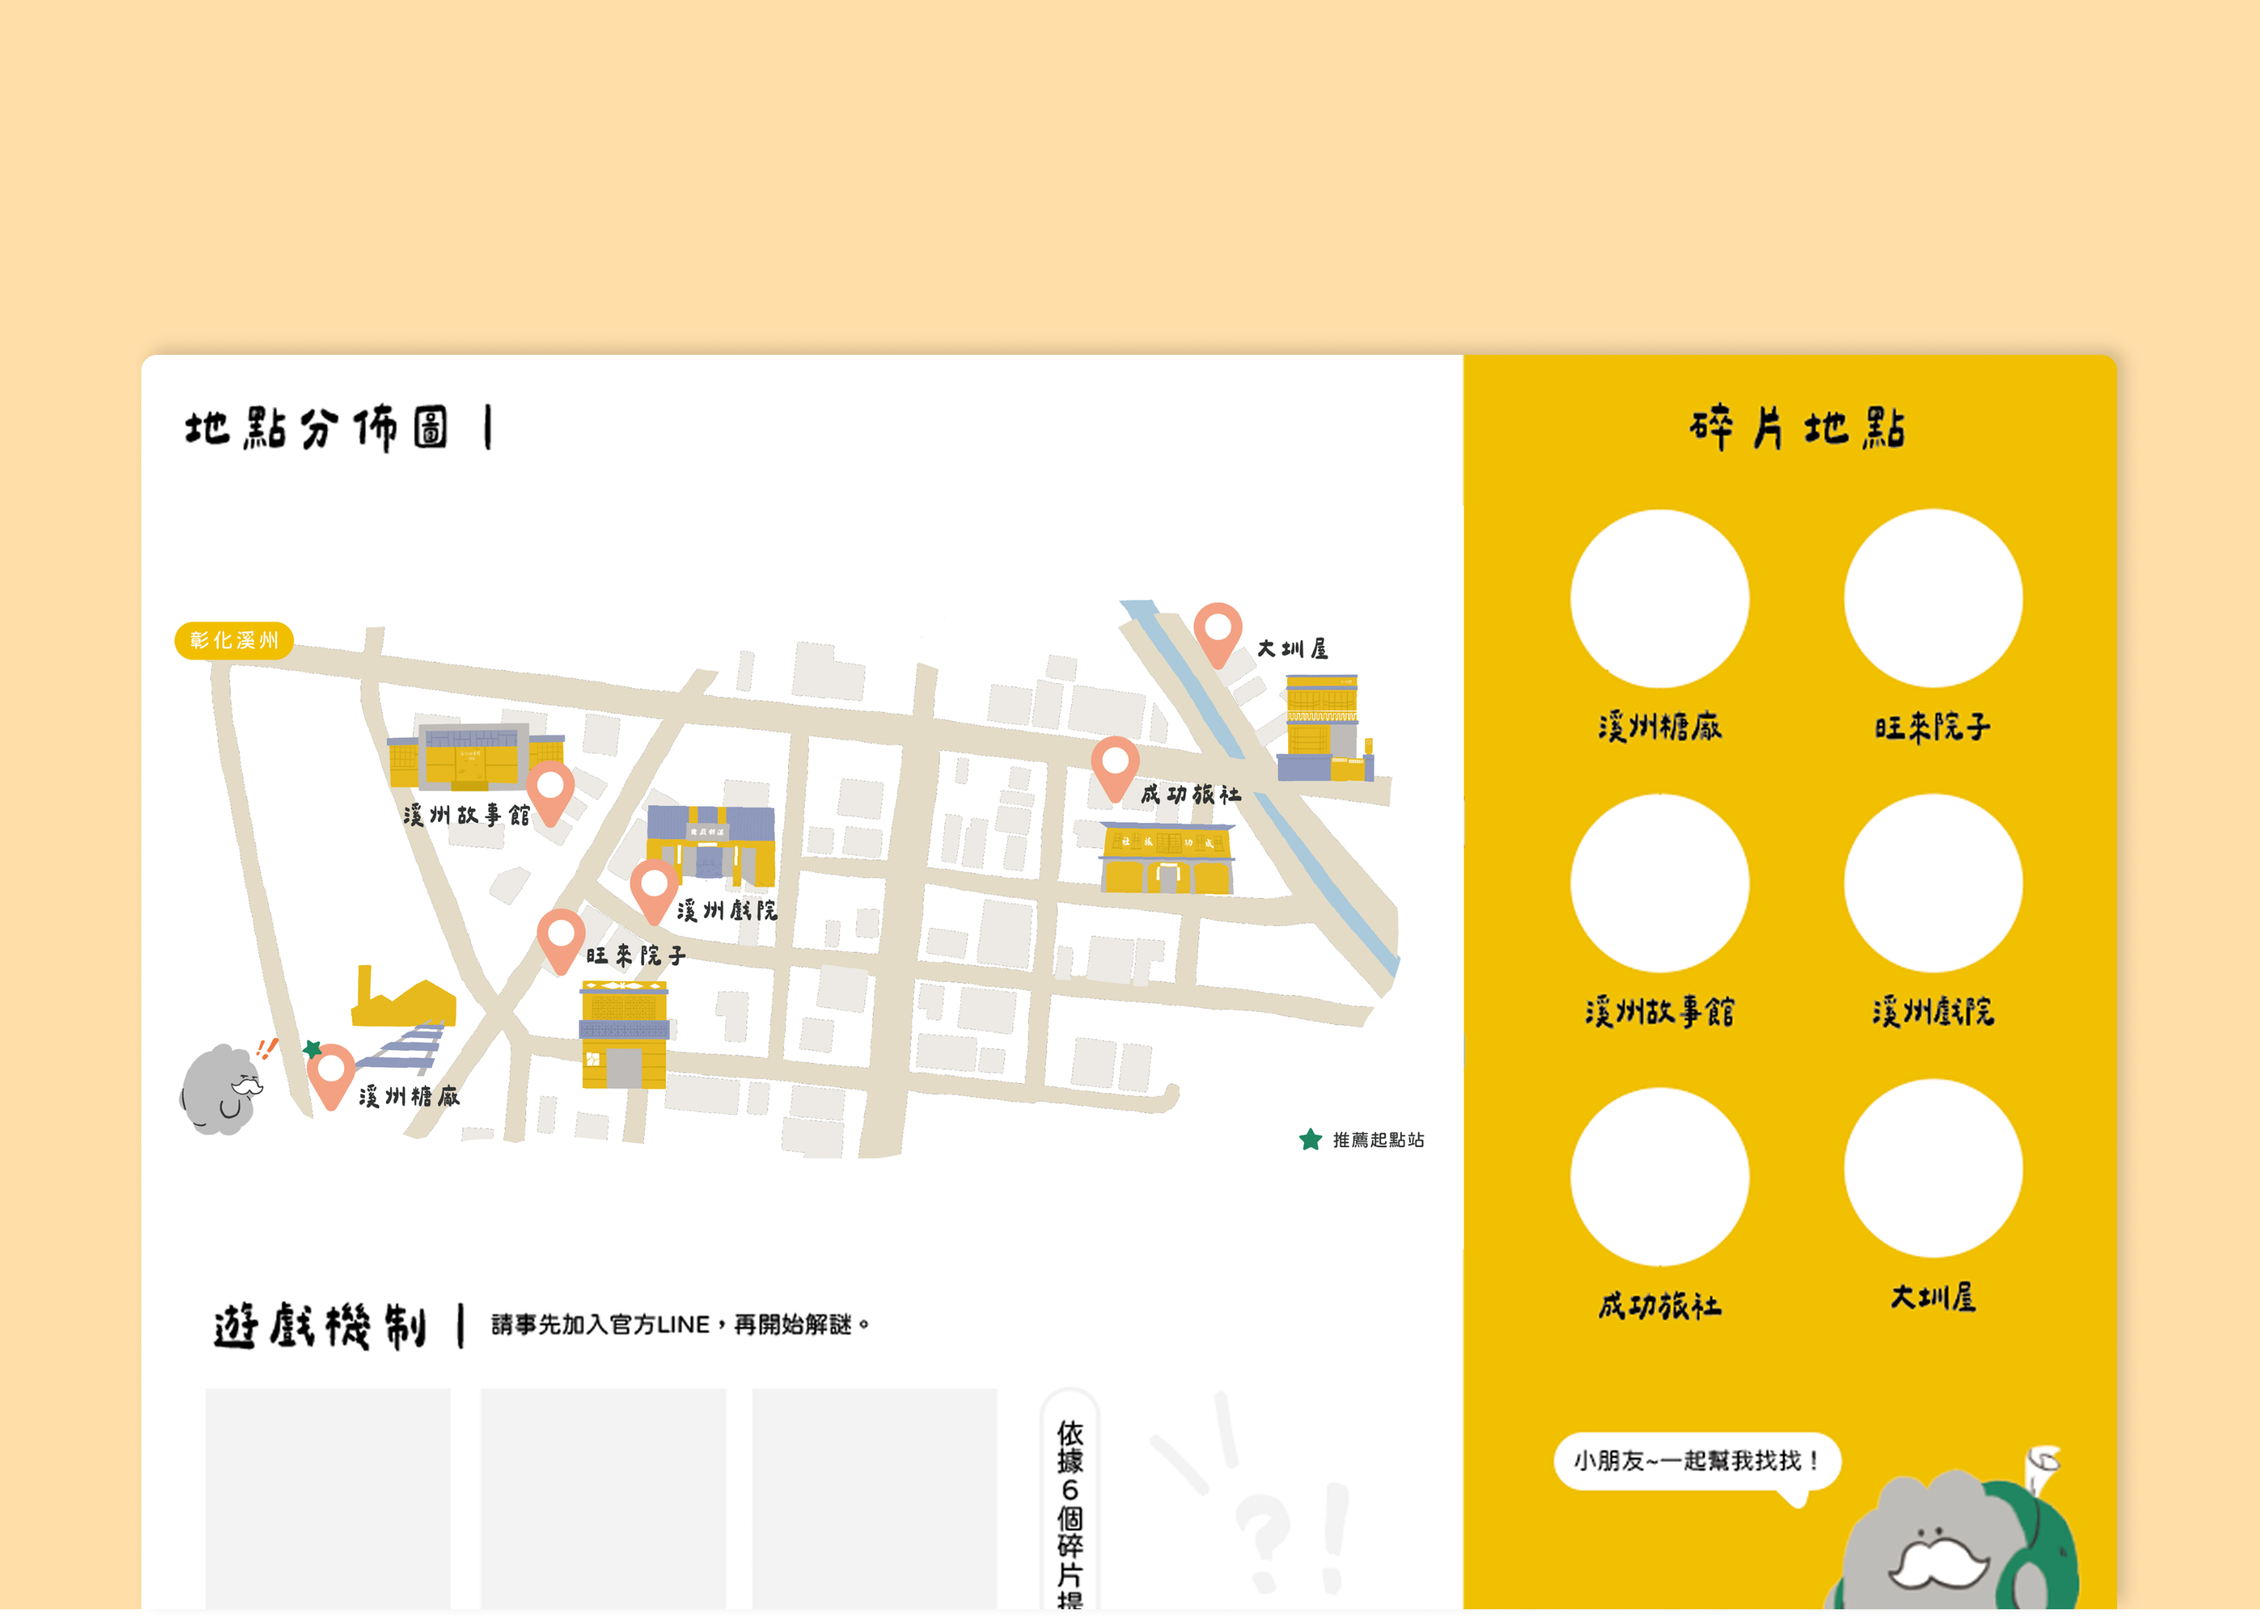
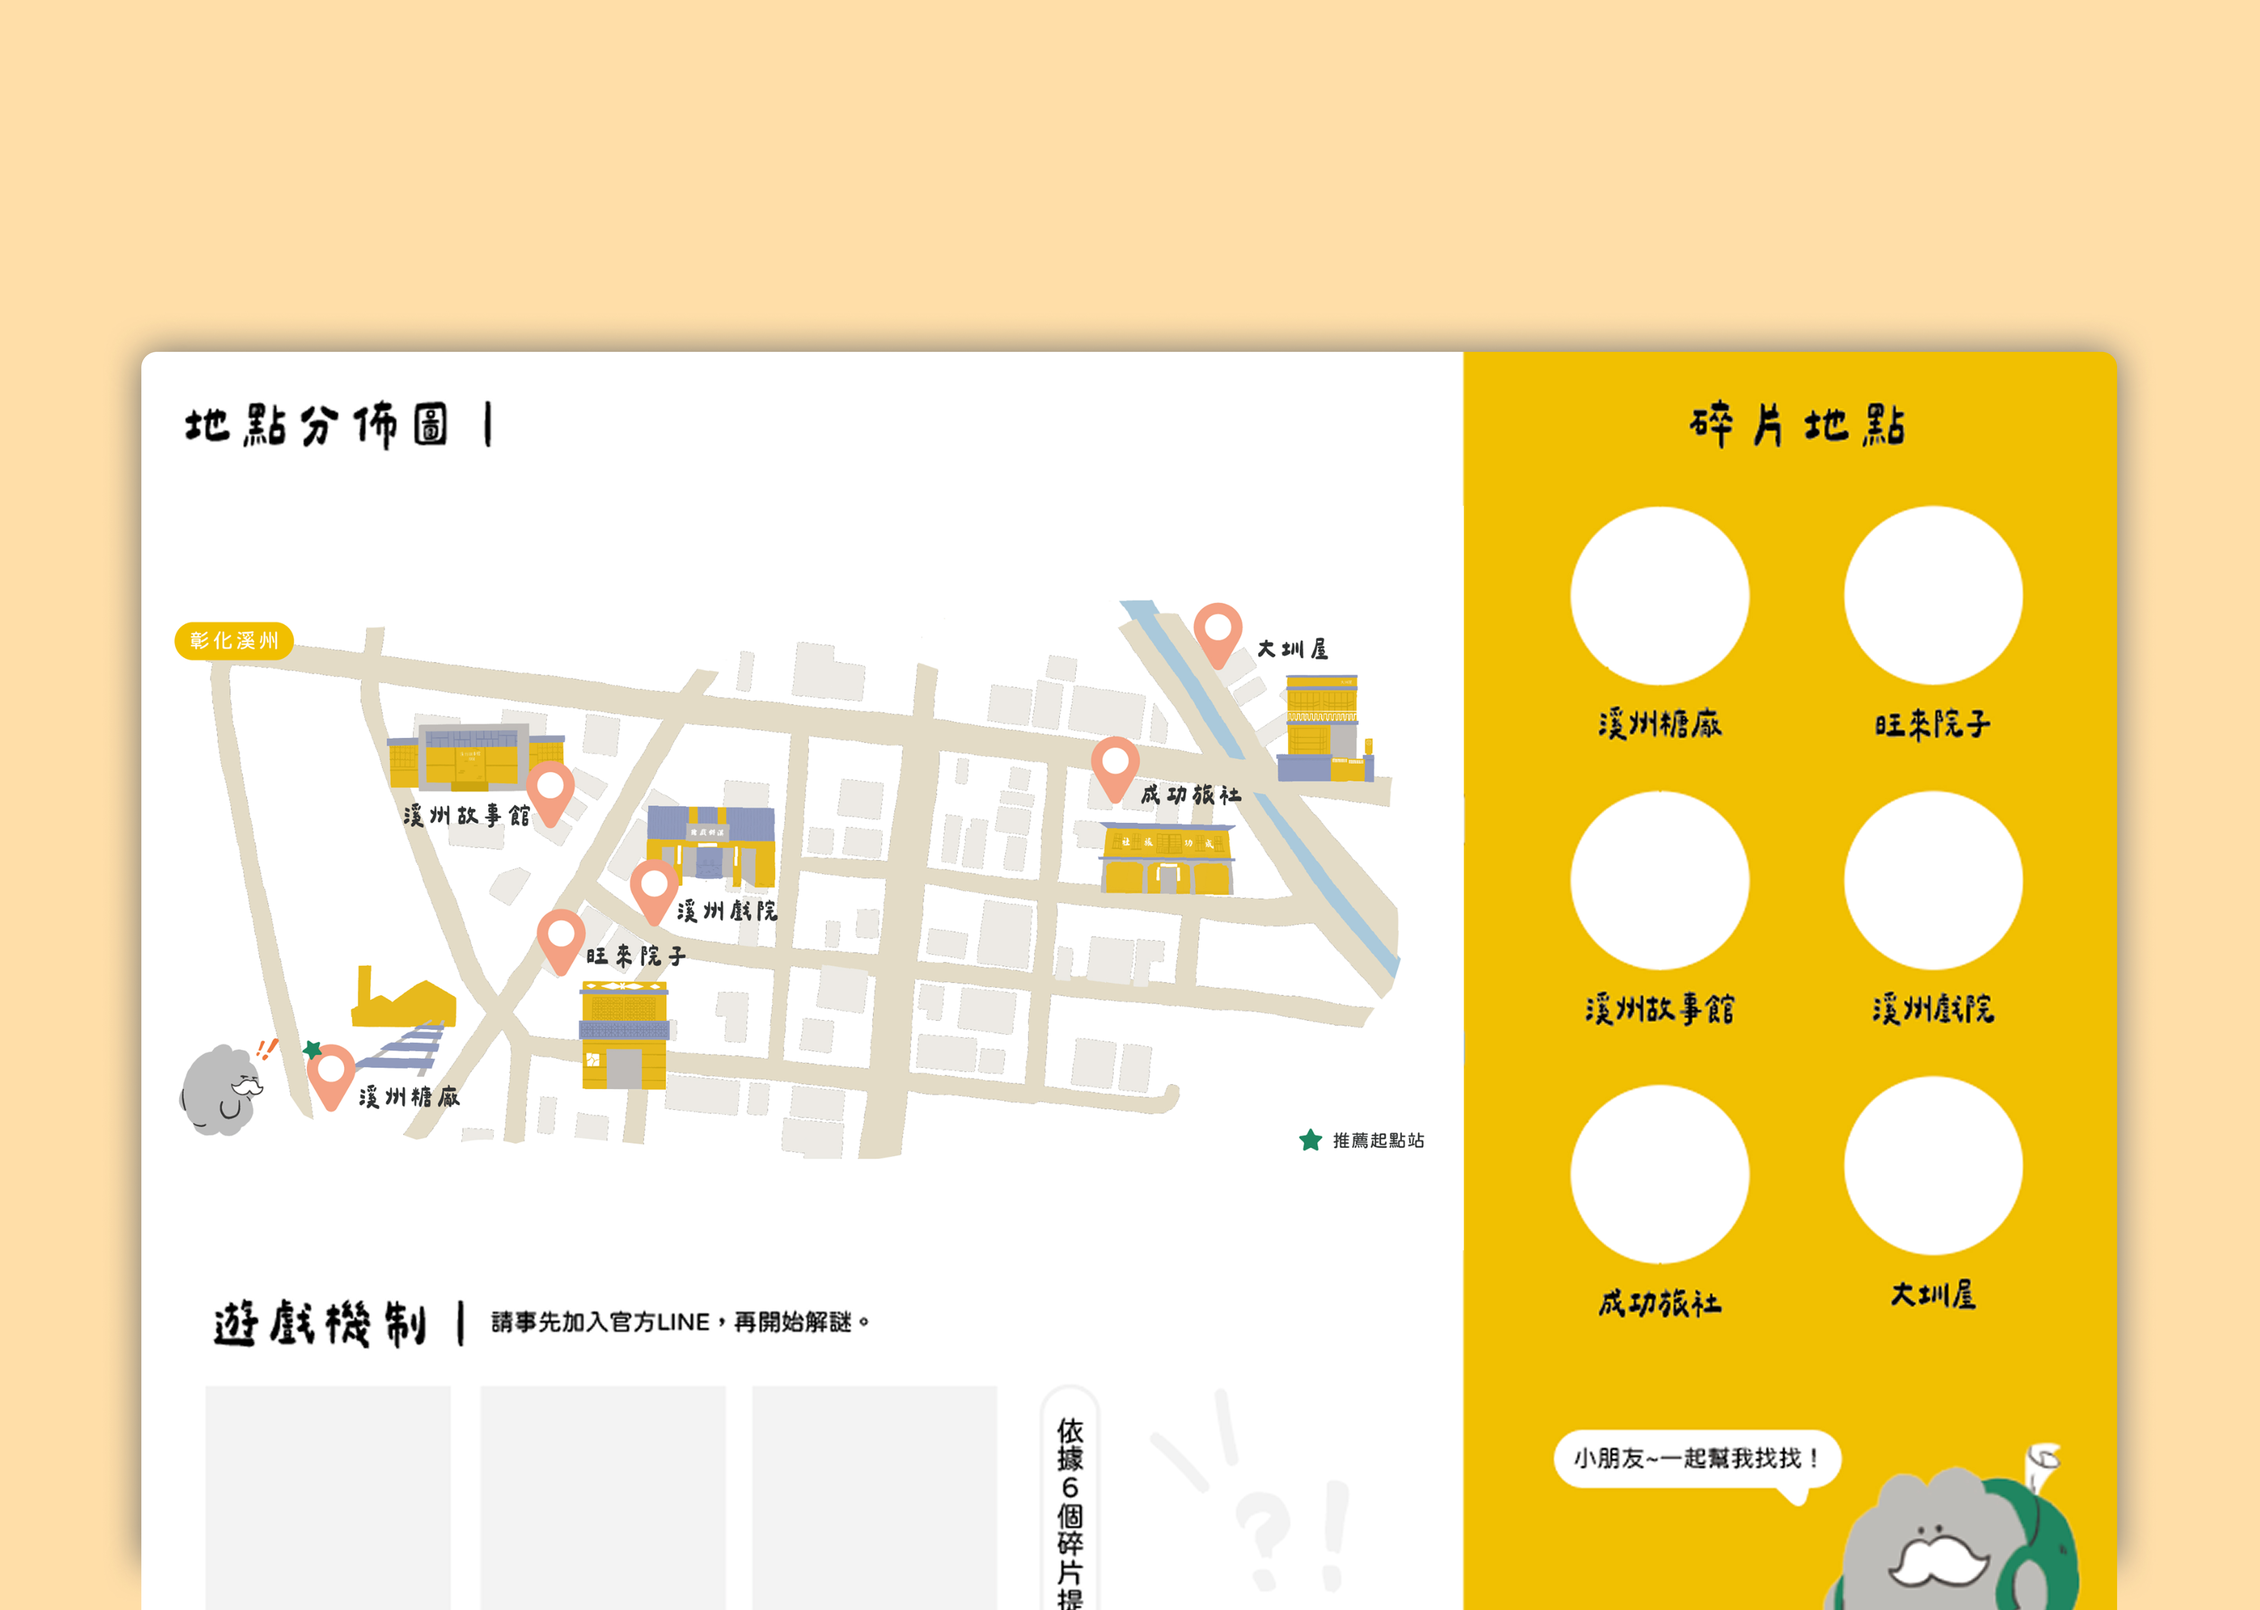
Space Feature #1 captions from their images, restore design1-2's cropped edges

diff --git a/css/editorial.css b/css/editorial.css
@@ -674,6 +674,23 @@ main { overflow-x: hidden; position: relative; }
    "Level card" labels keep the shared 12px size. */
 #f1-panels .fm-panel-label { font-size: calc(12px + 4pt); }
 
+/* .fm-panel-label declares position: absolute (above), but .fm-panel > * (shared, below) sets
+   position: relative at equal specificity and wins on source order — so the label isn't actually
+   an overlay here, it's row 1 of the panel's own implicit grid (one column, auto-flow row), with
+   the image as row 2 below it. That's a latent site-wide quirk (FeetMine's #testing-panels works
+   around the same thing with margin-top on its image instead), not something to fix from this one
+   page, so this works with it: row-gap is the real "space between the caption and the image." */
+#f1-panels .fm-panel { row-gap: 24px; }
+
+/* Panel A only (design1-1.svg, a plain photo of the blackboard): fills edge-to-edge, same bleed
+   treatment as Feature #2's route map below — cropping a photo loses nothing. Panel B
+   (design1-2.svg, a screenshot of numbered instructions and character bubbles right at its own
+   edges) keeps the shared .fm-full-shot default just above instead: object-fit: cover was cutting
+   that content off on both sides, so it needs the whole image, not a crop. */
+#f1-photo-panel { padding: 0; }
+#f1-photo-panel .fm-full-shot { width: 100%; height: 100%; align-self: stretch; border-radius: 0; }
+#f1-photo-panel .fm-full-shot img { width: 100%; height: 100%; object-fit: cover; }
+
 /* Feature #2's route map (design2-1.jpg) fills its panel edge-to-edge instead of showing the
    whole image centred like every other .fm-full-shot here — the same bleed treatment FeetMine
    gives its own edge-to-edge panel (css/editorial.css, [style*="orange"]), scoped by id since
@@ -681,6 +698,11 @@ main { overflow-x: hidden; position: relative; }
 #f2-route-panel { padding: 0; }
 #f2-route-panel > .fm-full-shot { width: 100%; height: 100%; align-self: stretch; border-radius: 0; }
 #f2-route-panel > .fm-full-shot img { width: 100%; height: 100%; object-fit: cover; }
+
+/* Level card (design2-2.png) keeps the shared .fm-full-shot treatment (whole image, centred) —
+   only its caption grows: 8pt larger than the shared 12px, matching how far Feature #1's captions
+   above already grew for the same reason (a caption competing with a large panel reads small). */
+#f2-level-panel .fm-panel-label { font-size: calc(12px + 8pt); }
 
 /* New, not in css/editorial.css: every image on this page is still a placeholder (no exports yet, and
    no deck slides to crop from), so instead of feetmine's .fm-shot crop mechanic every panel gets
@@ -723,4 +745,7 @@ main { overflow-x: hidden; position: relative; }
    centred rather than run edge-to-edge like the panels above: at full .fm-wrap width (1200px) a
    diagram this detailed reads as a wall of line-art; capping it keeps individual steps legible
    and leaves it visibly centred with margin to spare on wide screens. */
-#f4-funnel-shot { max-width: 720px; margin: 0 auto; }
+/* -16px on top of the auto-centring margin below pulls the diagram closer to the lead paragraph
+   above it, now that Feature #4 has no panels of its own between them (see "Copy that is not
+   final" in docs/gotchas.md). */
+#f4-funnel-shot { max-width: 720px; margin: -16px auto 0; }

diff --git a/work/xizhou/index.html b/work/xizhou/index.html
@@ -175,7 +175,7 @@
         <p class="fm-lead" data-text="xizhou.features.one.text"></p>
       </div>
       <div class="fm-panels" id="f1-panels" style="--fm-ratio: 1fr 1fr">
-        <div class="fm-panel fm-grain">
+        <div class="fm-panel fm-grain" id="f1-photo-panel">
           <p class="fm-panel-label" data-text="xizhou.features.one.panelALabel"></p>
           <div class="fm-full-shot">
             <img src="img/design1-1.svg" data-alt="xizhou.features.one.panelALabel" alt="" loading="lazy">
@@ -206,7 +206,7 @@
             <img src="img/design2-1.jpg" data-alt="xizhou.features.two.panelALabel" alt="" loading="lazy">
           </div>
         </div>
-        <div class="fm-panel fm-grain">
+        <div class="fm-panel fm-grain" id="f2-level-panel">
           <p class="fm-panel-label" data-text="xizhou.features.two.panelBLabel"></p>
           <div class="fm-full-shot">
             <img src="img/design2-2.png" data-alt="xizhou.features.two.panelBLabel" alt="" loading="lazy">

diff --git a/docs/gotchas.md b/docs/gotchas.md
@@ -103,6 +103,16 @@ JavaScript does not intercept. Both are live at once.
 not `.fm-x`. Adding a page rule that duplicates a shared selector will now win where the bare
 version used to lose. The computed-style diff above is how you catch that.
 
+**`.fm-panel-label` is not actually `position: absolute`.** It declares that (line ~233), but
+`.fm-panel > *` (line ~272, shared, further down the file) sets `position: relative` at equal
+specificity and wins on source order — `getComputedStyle` confirms `relative` in every browser.
+So a caption never overlays its panel's image; it's row 1 of the panel's own implicit grid (one
+column, auto-flow row), with the image as row 2 below it, zero gap by default. FeetMine's
+`#testing-panels` already works around this with `margin-top` on the image rather than fighting
+it; Xizhou's `#f1-panels .fm-panel { row-gap: 24px }` does the same with `row-gap`. Not fixed at
+the source, because FeetMine's own workaround was tuned against this exact behavior — making the
+label truly absolute would double up FeetMine's spacing.
+
 ## Unfinished
 
 **Most of FeetMine's final image exports still don't exist.** Each remaining `.fm-shot--*` `<img>`
@@ -146,13 +156,20 @@ have real exports now.** `design1-1.svg`/`design1-2.svg` (Feature #1) and `desig
 `.cs-feetmine`. `design2-1.jpg`/`design2-2.jpg` had been committed under `work/feetmine/img/` by
 mistake (unreferenced there); moved to `work/xizhou/img/` to match the "a project's images live
 with its page" rule, then `design2-2.jpg` itself was swapped for `design2-2.png` and deleted.
-Feature #2's route map (`design2-1.jpg`, `#f2-route-panel`) bleeds edge-to-edge via `object-fit:
-cover` — the same treatment FeetMine gives its own bleed panel — while the level card
-(`design2-2.png`) shows whole and centred, the shared `.fm-full-shot` default. `design-4.svg`
-(Figma export, no real `<text>` nodes) replaced Feature #4's dark funnel card, its visible step
-list, *and* its own two `.fm-shot-placeholder` panels (funnel overview, LINE chatbot) — the
-section now goes straight from its lead paragraph to the diagram, capped at 720px and centred
-(`#f4-funnel-shot`). The six funnel steps' real bilingual text lives on as the hidden
+Feature #1's photo panel (design1-1.svg, `#f1-photo-panel`) and Feature #2's route map
+(`design2-1.jpg`, `#f2-route-panel`) bleed edge-to-edge via `object-fit: cover` — the same
+treatment FeetMine gives its own bleed panel — while Feature #1's other panel (design1-2.svg, a
+screenshot with content flush to its own edges: numbered steps on the left, character bubbles on
+the right) and Feature #2's level card (`design2-2.png`) both show the whole image, centred, the
+shared `.fm-full-shot` default; `object-fit: cover` was cropping design1-2.svg's edges off before
+this was split out. Feature #2's level-card caption (`#f2-level-panel`) is 8pt over the shared
+12px, bigger than Feature #1's own captions (4pt over), both because a short caption reads small
+next to a large panel. `design-4.svg` (Figma export, no real `<text>` nodes) replaced
+Feature #4's dark funnel card, its visible step list, *and* its own two `.fm-shot-placeholder`
+panels (funnel overview, LINE chatbot) — the section now goes straight from its lead paragraph to
+the diagram (nudged up 16px via `#f4-funnel-shot`'s own negative margin, on top of the shared
+`.fm-wrap + .fm-wrap` gap), capped at 720px and centred. The six funnel steps' real bilingual text
+lives on as the hidden
 `<ol class="fm-sr" id="fm-funnel">` beside it, same "picture whose data must survive translation
 and screen readers" pattern as FeetMine's charts; `xizhou.features.four.panelALabel`/
 `panelBLabel` are unused now but left in site-text.js. `result-1.jpg`–`result-3.jpg` fill the
